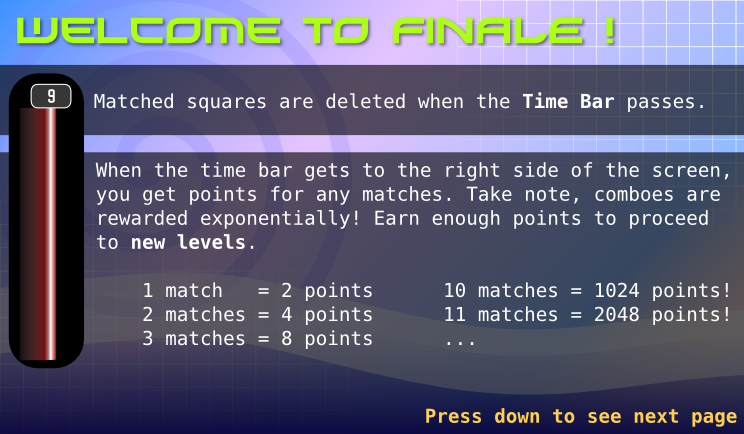
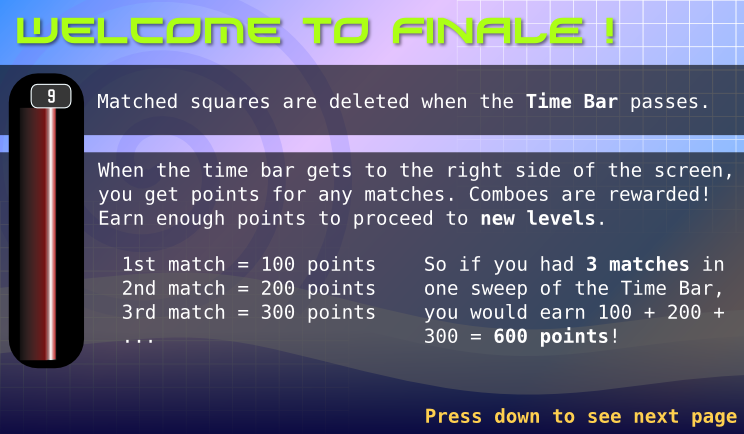
Correct combo scoring instructions. Add correct scoring for chain destroyers

Changed region(s): [[0.1237, 0.3594, 0.9892, 0.8088], [0.5565, 0.5991, 0.9892, 0.8088], [0.1237, 0.2097, 0.9583, 0.2696]]

diff --git a/finale/gameModel/TimeBar.java b/finale/gameModel/TimeBar.java
@@ -4,18 +4,21 @@ import java.util.Set;
 import java.util.TreeSet;
 
 import finale.events.BlockDestroyed;
+import finale.events.ChainDestroyerDestroyed;
 
 public class TimeBar {
 	private Board board;
 	private int locColumn;
-	private Set<Block> deletions;
-	private Set<Location> matchMarked;
+	private Set<Block> markedBlocks;
+	private Set<Location> markedMatchLocations, markedChainDestroyerLocations;
 	private int numDeleted;
+	
 	public TimeBar(Board b) {
 		board = b;
 		locColumn = 0;
-		deletions = new TreeSet<Block>();
-		matchMarked = new TreeSet<Location>();
+		markedBlocks = new TreeSet<Block>();
+		markedMatchLocations = new TreeSet<Location>();
+		markedChainDestroyerLocations = new TreeSet<Location>();
 		numDeleted = 0;
 	}
 
@@ -25,17 +28,21 @@ public class TimeBar {
 	   @return number of matches at the end of the scan of the grid
 	 */
 	public int advance() {
-		// if no new blocks are marked, or we have reached the end of the board, then do deletions
-		if (!markToDelete() || locColumn == board.getCols() - 1)
+		if (locColumn == board.getCols() - 1) { // at end of board
 			doDelete();
-		locColumn = (locColumn + 1) % board.getCols();
-		if (locColumn == 0)
-		{
-		    int temp = numDeleted;
-		    numDeleted= 0;
-		    return temp;
+			locColumn = 0;
+			
+			int dels = numDeleted;
+			numDeleted = 0;
+			return dels;
+		} else {
+			boolean markedAny = markToDelete();
+			if (!markedAny)
+				doDelete(); // delete once we're past any group of matches
+			
+			++locColumn;
+			return 0;
 		}
-		return 0;
 	}
 
 	private boolean markToDelete() {
@@ -48,22 +55,22 @@ public class TimeBar {
 			Block thisBlk = board.get(thisLoc);
 			
 			if (board.getSingleMatches().contains(thisLoc)) {
-				// deleting single match (usually from DestroyerBlock)
-			    matchMarked.add(thisLoc);
-				deletions.add(thisBlk);
+				// deleting single match (usually from ChainDestroyerBlock)
+			    markedChainDestroyerLocations.add(thisLoc);
+				markedBlocks.add(thisBlk);
 				marked = true;
-			} else {
-				// look for match squares that would include this location
-				outer:
-				for (int offsetR : offsets) {
-					for (int offsetC : offsets) {
-						Location matchloc = new Location(r+offsetR, locColumn+offsetC);
-						if (board.getMatches().contains(matchloc)) {
-						    matchMarked.add(matchloc);
-							deletions.add(thisBlk);
-							marked = true;
-							break outer;
-						}
+			}
+			
+			// look for match squares that would include this location
+			outer:
+			for (int offsetR : offsets) {
+				for (int offsetC : offsets) {
+					Location matchloc = new Location(r+offsetR, locColumn+offsetC);
+					if (board.getMatches().contains(matchloc)) {
+					    markedMatchLocations.add(matchloc);
+						markedBlocks.add(thisBlk);
+						marked = true;
+						break outer;
 					}
 				}
 			}
@@ -73,22 +80,32 @@ public class TimeBar {
 	}
 
 	private void doDelete() {
-		if (deletions.isEmpty())
+		if (markedBlocks.isEmpty())
 			return;
 		
 //		System.err.println("Doing deletions");
-		for (Block blk : deletions) {
+		for (Block blk : markedBlocks) {
 			blk.removeFromBoard();
-			board.addEvent(new BlockDestroyed(blk.getLocation()));
+			
+			int type = BlockDestroyed.TYPE_NORMAL;
+			if (markedChainDestroyerLocations.contains(blk.getLocation()))
+				type = BlockDestroyed.TYPE_CHAIN;
+			board.addEvent(new BlockDestroyed(blk.getLocation(), blk.getColor(), type));
 		}
-		numDeleted += matchMarked.size();
-		matchMarked.clear();
-		deletions.clear();
+		markedBlocks.clear();
+		
+		board.addEvent(new ChainDestroyerDestroyed(
+				markedChainDestroyerLocations.size()));
+		markedChainDestroyerLocations.clear();
+		
+		numDeleted += markedMatchLocations.size();
+		markedMatchLocations.clear();
+		
 		board.gravitate();
 	}
 	
 	public Set<Block> getMarked() {
-		return deletions;
+		return markedBlocks;
 	}
 	public int getNumDeleted() {
 	    return numDeleted;

diff --git a/finale/animation/ExplosionParticle.java b/finale/animation/ExplosionParticle.java
@@ -32,6 +32,7 @@ public class ExplosionParticle implements Animation{
 	private Location loc;
 	private GameView view;
 	private GameController ctl;
+	private Color color;
 	private double xoff, yoff;
 	private long lastLoopTime;
 	private int generation = 0;
@@ -50,25 +51,29 @@ public class ExplosionParticle implements Animation{
 	 * @param duration : The duration of the ExplosionParticle.
 	 */
 	public ExplosionParticle(GameController ctl, GameView view, double dx, double dy,
-			Location loc, int duration, double xoff, double yoff, int generation)
-	{
+			Location loc, int duration, Color color,
+			double xoff, double yoff, int generation) {
 		this.ctl = ctl;
 		this.view = view;
 		this.dx = dx;
 		this.dy = dy;
 		this.loc = loc;
 		this.duration = duration;
-		this.generation = generation;
-		time = 1;
+		this.color = color;
 		this.xoff = xoff;
 		this.yoff = yoff;
+		this.generation = generation;
+		time = 1;
 		lastLoopTime = System.currentTimeMillis();
 	}
 	
 	public ExplosionParticle(GameController ctl, GameView view, double dx, double dy,
-			Location loc, int duration)
-	{
-		this(ctl, view, dx, dy, loc, duration, 0, 0, 0);
+			Location loc, int duration) {
+		this(ctl, view, dx, dy, loc, duration, Color.WHITE, 0, 0, 0);
+	}
+	public ExplosionParticle(GameController ctl, GameView view, double dx, double dy,
+			Location loc, int duration, Color color) {
+		this(ctl, view, dx, dy, loc, duration, color, 0, 0, 0);
 	}
 
 	public void draw(Graphics2D g, Rectangle b, Rectangle field) {
@@ -80,7 +85,7 @@ public class ExplosionParticle implements Animation{
 		int y = field.y + (ctl.getBoard().getRows() - loc.getRow())*grid.height - grid.height/2;
 		
 //		g.setColor(generation == 0 ? Color.RED : Color.WHITE);
-		g.setColor(Color.WHITE);
+		g.setColor(color);
         g.setComposite(AlphaComposite.getInstance(AlphaComposite.SRC_OVER, 0.75f));
 		//Rectangle particle = new Rectangle(x + (int)xoff, y + (int)yoff, INITIAL_SIZE/time, INITIAL_SIZE/time);
         //Shape particle = new Ellipse2D.Float(INITIAL_SIZE/time, INITIAL_SIZE/time, INITIAL_SIZE/time, INITIAL_SIZE/time);

diff --git a/finale/events/BlockDestroyed.java b/finale/events/BlockDestroyed.java
@@ -1,5 +1,7 @@
 package finale.events;
 
+import java.awt.Color;
+
 import finale.animation.ExplosionParticle;
 import finale.controllers.GameController;
 import finale.gameModel.Location;
@@ -16,17 +18,36 @@ public class BlockDestroyed implements GameEvent {
 	/** The initial speed of the ExplosionParticles of the explosion */
 	private static final int SPEED = 1000;
 	private Location loc;
+	private boolean color;
+	private int type;
+	public static final int TYPE_NORMAL = 0;
+	public static final int TYPE_CHAIN = 1;
 	
 	/**
 	   @param loc : The location of the destroyed Block.
 	 */
-	public BlockDestroyed(Location loc) {
+	public BlockDestroyed(Location loc, boolean color) {
+		this(loc, color, TYPE_NORMAL);
+	}
+	public BlockDestroyed(Location loc, boolean color, int type) {
 		this.loc = loc;
+		this.color = color;
+		this.type = type;
 	}
 
 	public void action(GameController ctl, GameView view) {
+		Color drawColor = Color.WHITE;
+		if (type == TYPE_CHAIN)
+			drawColor = Color.decode(ctl.getLevel().getBlockMatchColor(color));
+		
 		for (int i = 0; i < 30; i++) {
-			view.animate(new ExplosionParticle(ctl, view, SPEED-2*SPEED*Math.random(), -SPEED*Math.random(), loc, (int)(50*Math.random())));
+			view.animate(new ExplosionParticle(
+					ctl, view,
+					SPEED-2*SPEED*Math.random(), -SPEED*Math.random(), loc,
+					(int)(50*Math.random()),
+					drawColor
+				)
+			);
 		}
 	}
 

diff --git a/finale/views/GameView.java b/finale/views/GameView.java
@@ -231,11 +231,9 @@ public class GameView implements View
             
             Composite oldComp = g.getComposite();
             g.setComposite(AlphaComposite.getInstance(AlphaComposite.SRC_OVER, 0.7f));
-            if (board.get(matchLoc).getColor()) {
-            	g.setColor(Color.decode(level.getBlock1MatchColor()));
-            } else {
-            	g.setColor(Color.decode(level.getBlock2MatchColor()));
-            }
+        	g.setColor(Color.decode(level.getBlockMatchColor(
+        			board.get(matchLoc).getColor()
+        		)));
             g.fillRect( box.x, box.y, box.width, box.height );
             g.setComposite(oldComp);
             

diff --git a/finale/events/ChainDestroyerDestroyed.java b/finale/events/ChainDestroyerDestroyed.java
@@ -1,0 +1,24 @@
+package finale.events;
+
+import finale.animation.ExplosionParticle;
+import finale.controllers.GameController;
+import finale.gameModel.Location;
+import finale.views.GameView;
+/**
+An event that is called when blocks are destroyed. Draws explosion and play sound 
+
+@author  David Liu, Brandon Liu, Yuzhi Zheng
+@version June 4th, 2008
+@author team FINALE
+*/
+public class ChainDestroyerDestroyed implements GameEvent {
+	private int size;
+	
+	public ChainDestroyerDestroyed(int size) {
+		this.size = size;
+	}
+
+	public void action(GameController ctl, GameView view) {
+		ctl.chainDestroyerDestroyed(size);
+	}
+}

diff --git a/finale/controllers/GameController.java b/finale/controllers/GameController.java
@@ -157,6 +157,14 @@ public class GameController implements Controller
     }
     
     /**
+     * Called from ChainDestroyerDestroyed event to increment score.
+     * @param size number of blocks cleared
+     */
+    public void chainDestroyerDestroyed(int size) {
+    	gameScore += 50 * size;
+    }
+    
+    /**
        Advances the TimeBar partially.
      */
     public void microadvanceTimeBar() {

diff --git a/finale/gameModel/Level.java b/finale/gameModel/Level.java
@@ -134,5 +134,9 @@ public class Level {
 	private static String levelFilename(int num) {
 		return "finale/resources/levels/"+num;
 	}
+
+	public String getBlockMatchColor(boolean color) {
+		return color ? block1MatchColor : block2MatchColor;
+	}
 	
 }
